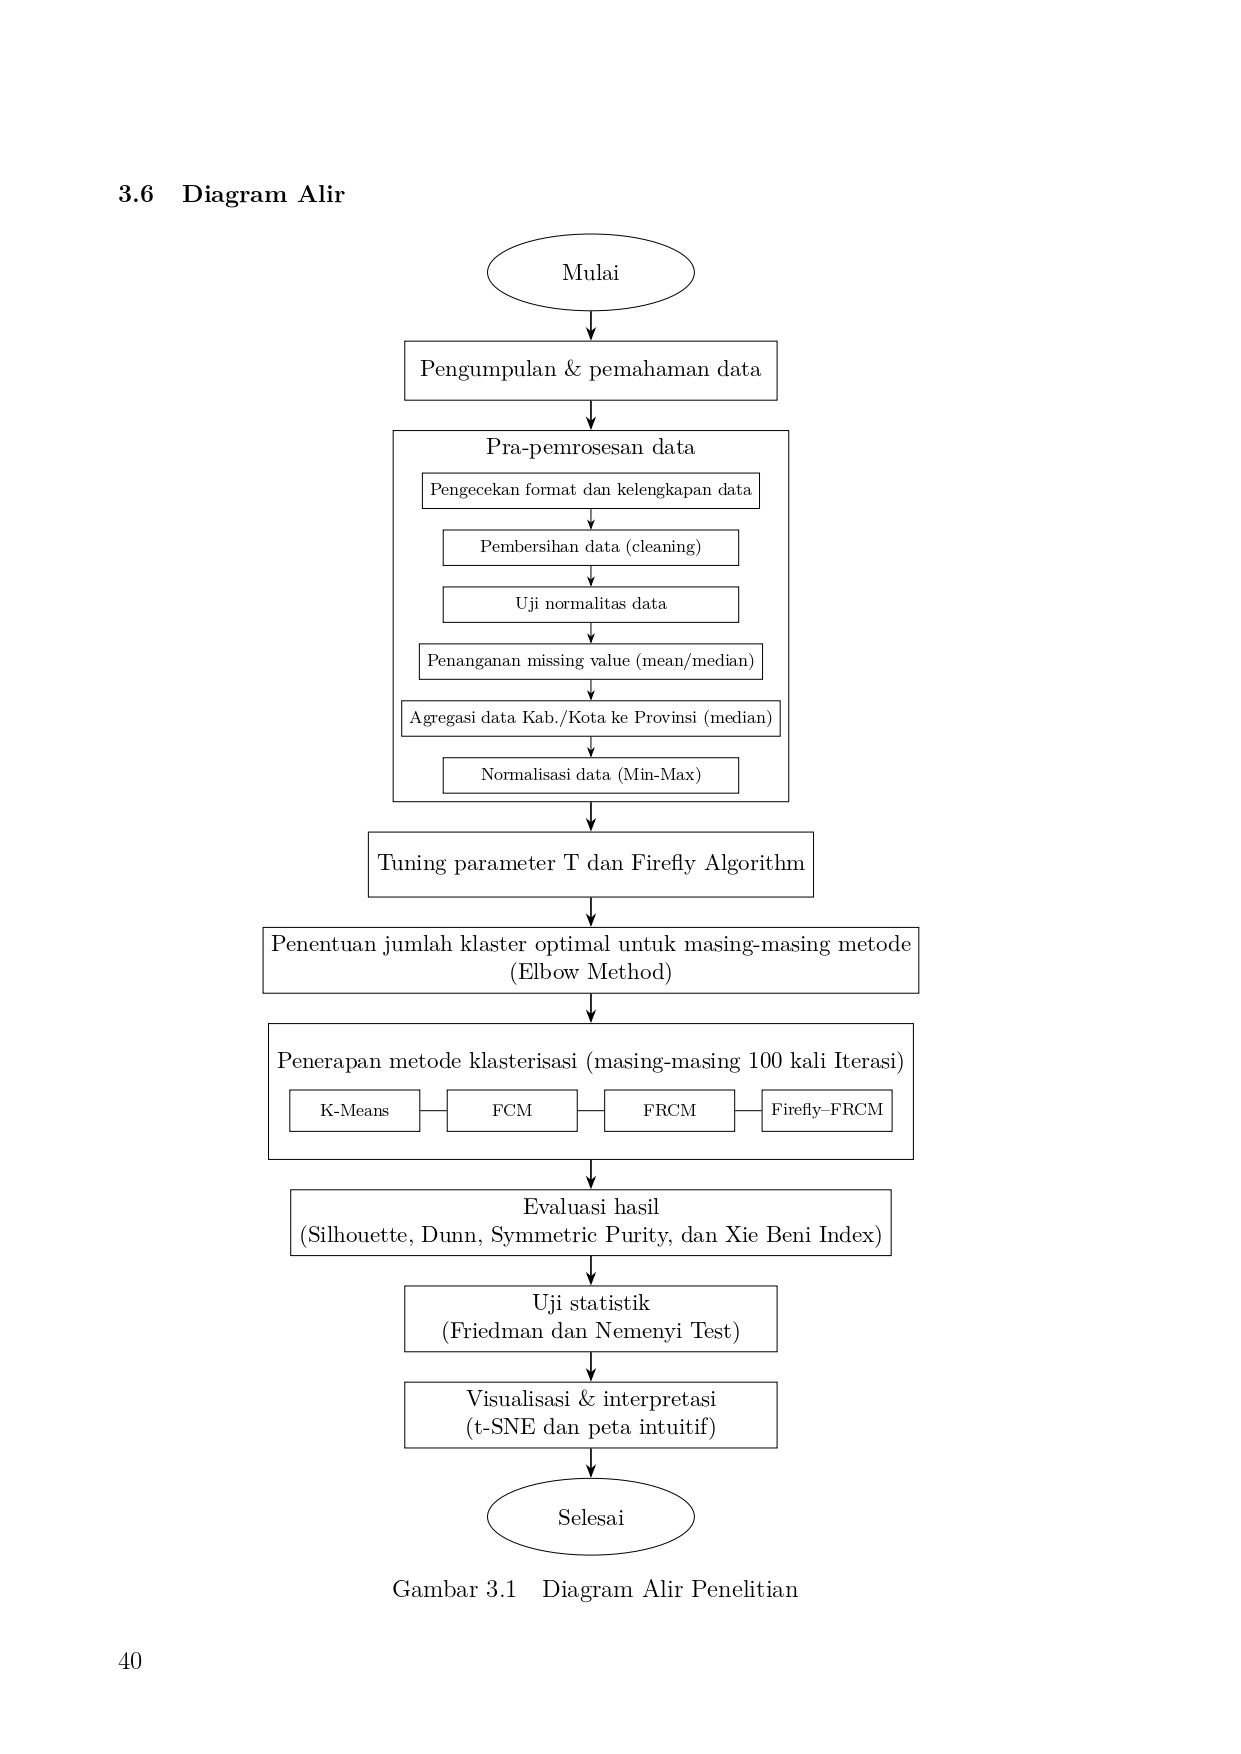
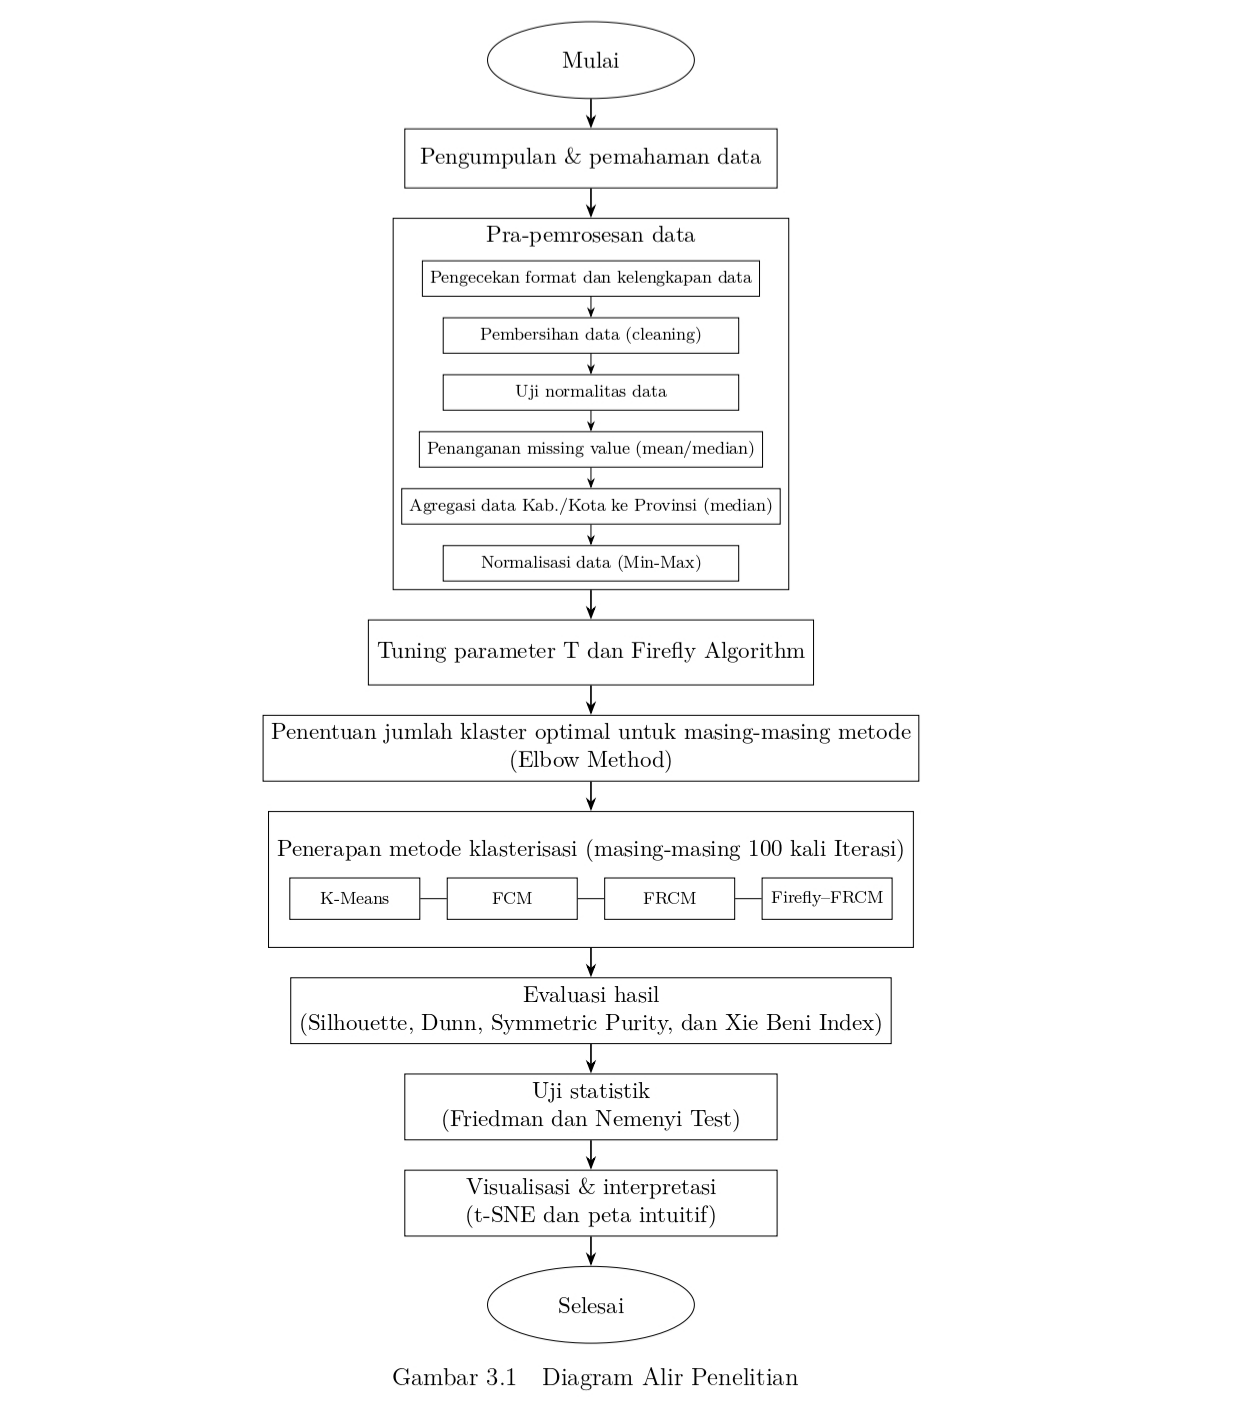
Update diagram alir penelitian

diff --git a/README.md b/README.md
@@ -1,2 +1,65 @@
-# proyek-tugas-akhir
-Perbandingan Metode Klasterisasi Berbasis Hard, Fuzzy, dan Metaheuristik-Fuzzy Rough untuk Analisis Data Sampah Antarprovinsi di Indonesia
+# Perbandingan Metode Klasterisasi Berbasis Hard, Fuzzy, dan Metaheuristik-Fuzzy Rough untuk Analisis Data Sampah Antarprovinsi di Indonesia
+
+## Deskripsi Penelitian
+
+Penelitian ini bertujuan membandingkan performa metode klasterisasi berbasis hard, fuzzy, dan metaheuristik-fuzzy rough dalam mengelompokkan karakteristik sampah antarprovinsi di Indonesia menggunakan data Sistem Informasi Pengelolaan Sampah Nasional (SIPSN) periode 2019–2025.
+
+Metode yang dibandingkan meliputi:
+
+* K-Means
+* Fuzzy C-Means (FCM)
+* Fuzzy Rough C-Means (FRCM)
+* Firefly Algorithm Fuzzy Rough C-Means (FA-FRCM)
+
+Evaluasi dilakukan menggunakan Silhouette Score, Dunn Index, Symmetric Purity, dan Xie-Beni Index. Perbedaan performa metode diuji menggunakan Friedman Test dan Nemenyi Test.
+
+## Diagram Alir Penelitian
+
+<p align="center">
+  <img src="images/diagram_alir_penelitian.png" width="500">
+</p>
+
+<p align="center">
+  Diagram alir penelitian tugas akhir.
+</p>
+
+## Tahapan Penelitian
+
+1. Pengumpulan dan pemahaman data SIPSN (2019–2025)
+2. Pra-pemrosesan data
+3. Tuning parameter FRCM dan FA-FRCM
+4. Penentuan jumlah klaster optimal
+5. Penerapan algoritma klasterisasi
+6. Evaluasi hasil klasterisasi
+7. Uji statistik
+8. Visualisasi dan interpretasi hasil
+
+## Struktur Repository
+
+```text
+Dataset/         -> Dataset mentah dan hasil agregasi
+PREPROCE/        -> Pra-pemrosesan data
+TUNING/          -> Tuning parameter FRCM dan FA-FRCM
+ELBOW/           -> Penentuan jumlah klaster optimal
+KLASTER_DATA/    -> Hasil klasterisasi
+EVALUASI/        -> Silhouette, Dunn, SP, XB
+UJI STATIS/      -> Friedman dan Nemenyi Test
+VISUALISASI/     -> t-SNE dan peta klaster
+Dashboard/       -> Dashboard hasil analisis
+```
+
+## Tools
+
+* Python
+* Pandas
+* NumPy
+* Scikit-Learn
+* Matplotlib
+* GeoPandas
+* QGIS
+
+## Penulis
+
+Raissa Undita
+Departemen Matematika
+Institut Teknologi Sepuluh Nopember (ITS)